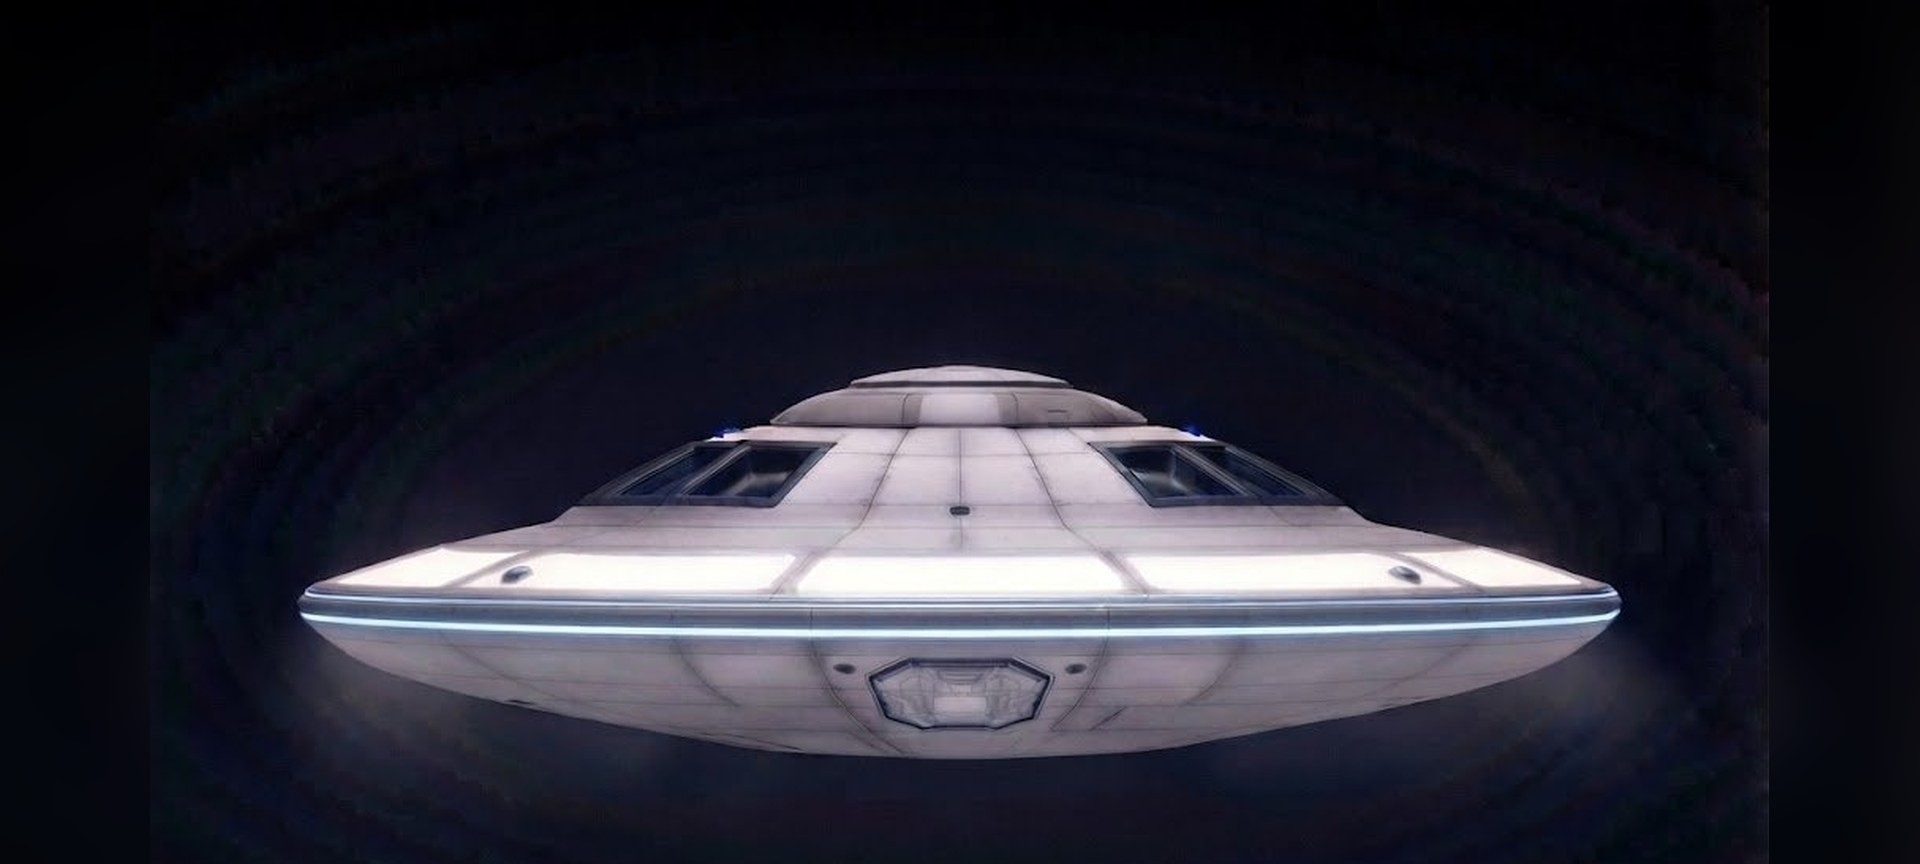
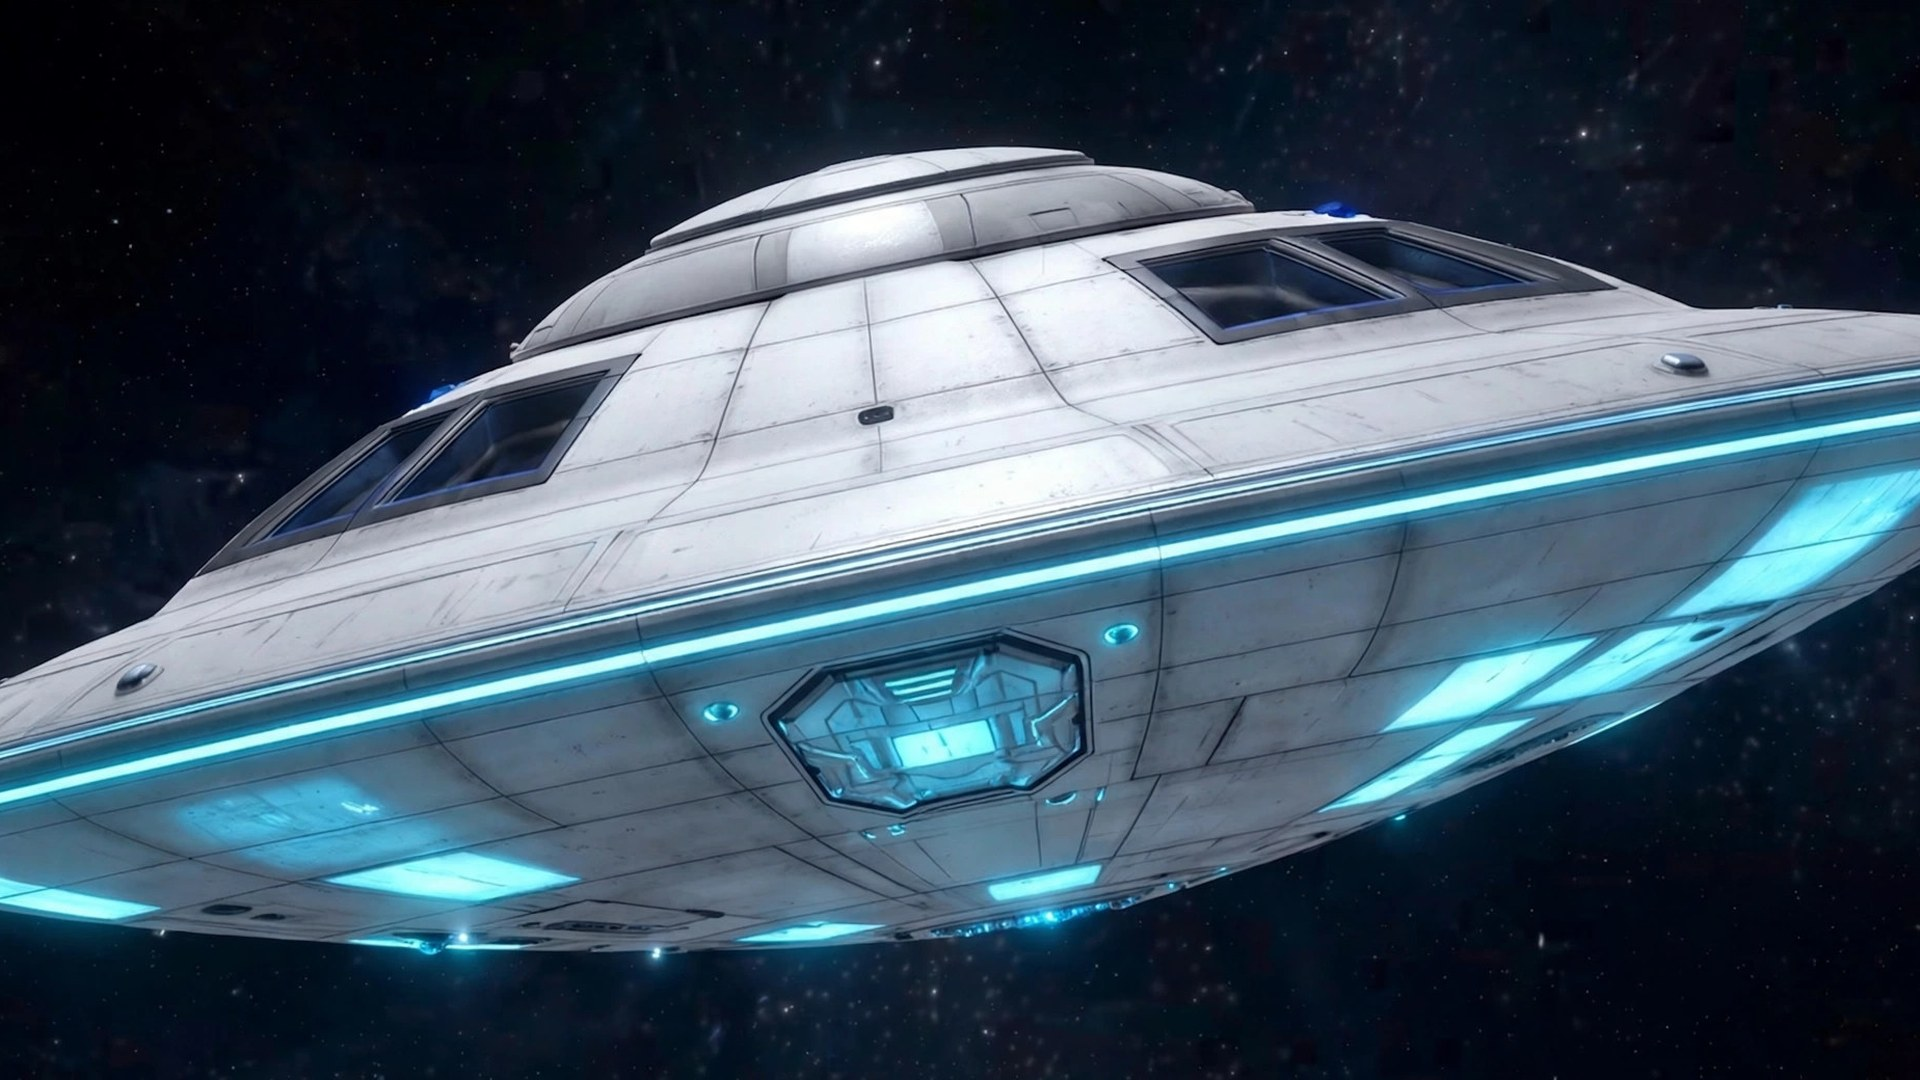
Replace vessel-saucer.jpg with a new fill-in asset: the CTP Scout/Recon disc craft now fills the frame (was a thin band with empty black above/below, too short vertically in the Featured Vessel bubble on /corporate/). Same craft design, lower three-quarter angle, dome and glowing underside prominent

diff --git a/layouts/_default/corporate.html b/layouts/_default/corporate.html
@@ -154,7 +154,7 @@
             <a class="btn" href="https://ctp-space-systems.github.io/#vessel-classes">View Vessels →</a>
           </div>
           <div class="vessel-img">
-            <img src="{{ "assets/hero/vessel-saucer.jpg" | relURL }}" alt="CTP Scout/Recon disc craft" width="1920" height="864" />
+            <img src="{{ "assets/hero/vessel-saucer.jpg" | relURL }}" alt="CTP Scout/Recon disc craft" width="1920" height="1080" />
           </div>
         </div>
       </section>
